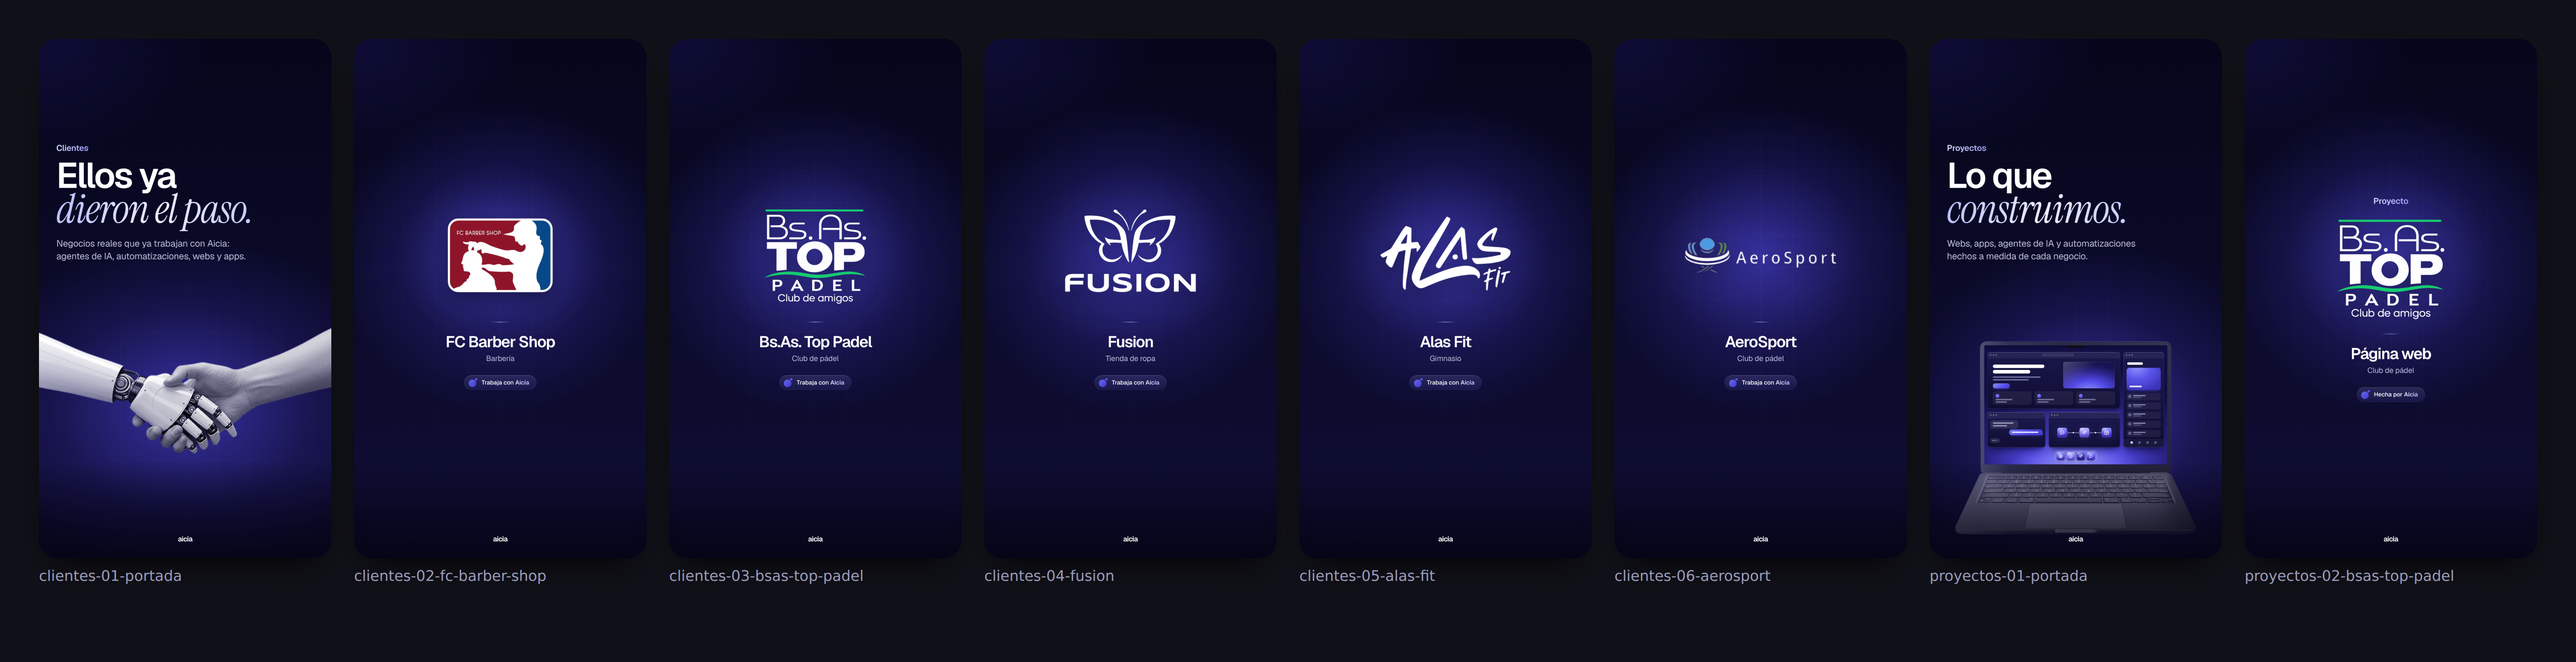
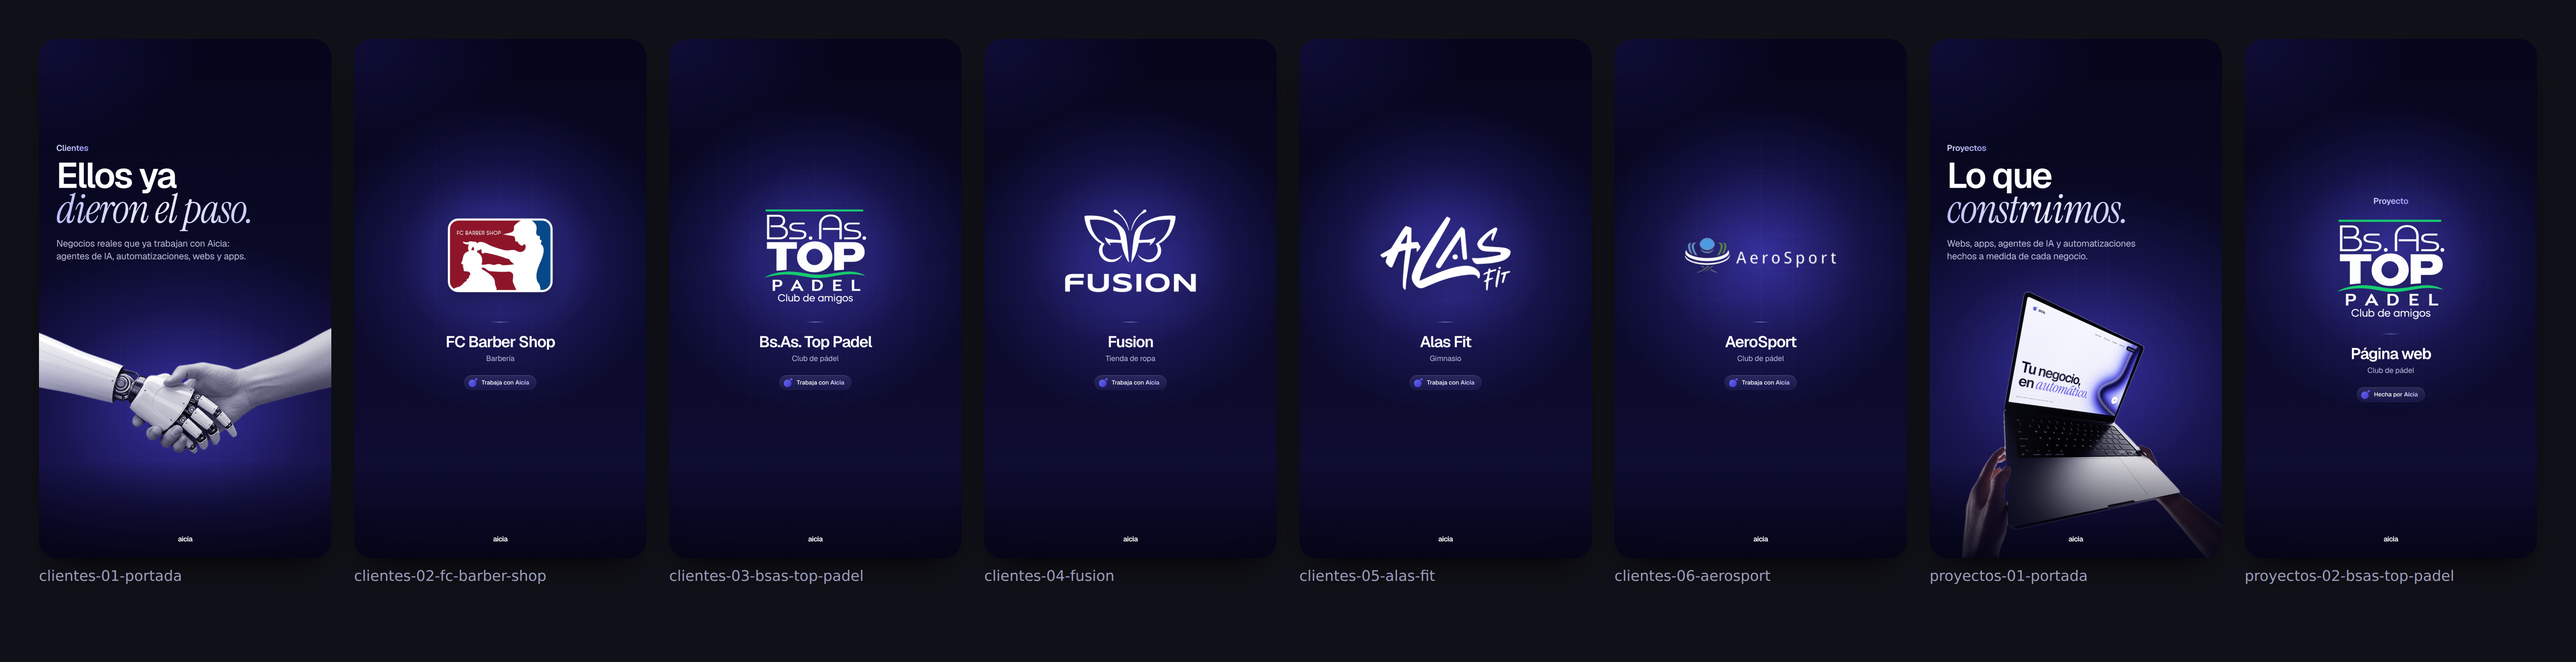
Proyectos: portada con foto real de manos y MacBook, sitio de Aicia calzado en perspectiva
Claude-Session: https://claude.ai/code/session_01SBSshHAET78NiDLxszLW9R

Changed region(s): [[0.7491, 0.3438, 0.8739, 0.8125]]

diff --git a/historias/clientes-proyectos/historias.html b/historias/clientes-proyectos/historias.html
@@ -239,55 +239,29 @@ svg.app .gl .f{fill:#fff;stroke:none}
 .card .pill .lg-i{width:34px;height:34px;margin-left:-6px;flex:none}
 .card .pill b{font-weight:600;background:linear-gradient(90deg,#E4E5FF,#B9BBFF);-webkit-background-clip:text;background-clip:text;-webkit-text-fill-color:transparent}
 
-/* MacBook con fondo de pantalla */
-.mac-screen{z-index:3;overflow:hidden;border-radius:3px 3px 0 0;background:radial-gradient(70% 90% at 50% 105%,#7B7EF8 0%,#4F46E5 35%,#2A2384 70%,#120F45 100%)}
-.mac-screen::before{content:"";position:absolute;inset:0;background:radial-gradient(60% 60% at 50% 120%,rgba(199,201,255,.55),transparent 70%)}
-.mac-screen .notch{position:absolute;left:50%;top:0;width:58px;height:9px;margin-left:-29px;background:#0E0E12;border-radius:0 0 6px 6px;z-index:2}
-.mac-screen .bar{position:absolute;left:0;right:0;top:0;height:13px;background:rgba(10,8,40,.35);backdrop-filter:blur(6px)}
-/* Pantalla: web, app, agente de IA y automatización */
-.mac-screen .win{position:absolute;border-radius:10px;overflow:hidden;background:linear-gradient(180deg,rgba(26,24,74,.94),rgba(14,12,46,.96));box-shadow:inset 0 0 0 .7px rgba(255,255,255,.22),inset 0 1px 0 rgba(255,255,255,.16),0 16px 30px -10px rgba(6,4,40,.75),0 2px 6px rgba(6,4,40,.35)}
-.mac-screen .win > *{position:absolute}
-.mac-screen .wt{position:relative!important;height:22px;display:flex;align-items:center;gap:4px;padding:0 9px;background:rgba(255,255,255,.05);box-shadow:inset 0 -.6px 0 rgba(255,255,255,.09)}
-.mac-screen .wt > i{width:6px;height:6px;border-radius:50%;background:rgba(255,255,255,.28)}
-.mac-screen .wt .url{margin:0 auto;width:120px;height:11px;border-radius:6px;background:rgba(255,255,255,.08)}
-.mac-screen .sk{border-radius:99px;background:#fff}
-.mac-screen .sk.p{height:5px;background:rgba(199,201,255,.5)}
-.mac-screen .btn{width:62px;height:18px;border-radius:9px;background:linear-gradient(135deg,#8487FA,#5B54EC 55%,#4338CA);box-shadow:inset 0 .6px 0 rgba(255,255,255,.4),0 4px 10px -2px rgba(79,70,229,.6)}
-.mac-screen .hero{border-radius:8px;background:radial-gradient(90% 100% at 50% 110%,#8B8EFA 0%,#4F46E5 40%,#2A2384 75%,#17134F 100%);box-shadow:inset 0 0 0 .6px rgba(255,255,255,.18)}
-.mac-screen .hero::after{content:"";position:absolute;inset:0;border-radius:inherit;background:linear-gradient(135deg,rgba(255,255,255,.22),transparent 45%)}
-.mac-screen .cd{width:94px;height:64px;border-radius:8px;background:rgba(255,255,255,.06);box-shadow:inset 0 0 0 .6px rgba(255,255,255,.12)}
-.mac-screen .cd i{position:absolute;left:10px;top:11px;width:14px;height:14px;border-radius:50%;background:linear-gradient(135deg,#8487FA,#4F46E5)}
-.mac-screen .cd b{position:absolute;left:10px;height:5px;border-radius:3px;background:rgba(199,201,255,.45)}
-.mac-screen .cd b:nth-of-type(1){top:36px;width:62px}.mac-screen .cd b:nth-of-type(2){top:46px;width:42px}
-.mac-screen .web .cd i{top:9px}.mac-screen .web .cd b:nth-of-type(1){top:27px}.mac-screen .web .cd b:nth-of-type(2){top:36px}
-.mac-screen .bub{display:flex;flex-direction:column;gap:5px;padding:8px 10px;border-radius:11px}
-.mac-screen .bub b{height:5px;border-radius:3px}
-.mac-screen .bub.in{left:10px;background:rgba(255,255,255,.10);border-bottom-left-radius:3px}
-.mac-screen .bub.in b{background:rgba(226,228,255,.55)}
-.mac-screen .bub.out{right:10px;background:linear-gradient(150deg,#7376F6,#4F46E5 60%,#4338CA);border-bottom-right-radius:3px;box-shadow:0 4px 10px -3px rgba(79,70,229,.6)}
-.mac-screen .bub.out b{background:rgba(255,255,255,.85)}
-.mac-screen .typing{left:10px;top:138px;display:flex;gap:3px;padding:7px 9px;border-radius:10px;background:rgba(255,255,255,.10)}
-.mac-screen .typing i{width:4px;height:4px;border-radius:50%;background:rgba(226,228,255,.7)}
-.mac-screen .typing i:nth-child(2){opacity:.7}.mac-screen .typing i:nth-child(3){opacity:.4}
-.mac-screen .auto .wires{left:0;top:0}
-.mac-screen .nd{width:36px;height:36px;filter:drop-shadow(0 4px 7px rgba(6,4,40,.6)) drop-shadow(0 0 8px rgba(99,102,241,.35))}
-.mac-screen .phn{position:absolute;width:118px;height:250px;padding:3px;border-radius:21px;background:linear-gradient(145deg,#4A4A58,#1A1A22 40%,#2C2C36);box-shadow:inset 0 0 0 .6px rgba(255,255,255,.3),0 20px 34px -10px rgba(4,3,30,.85),0 4px 10px rgba(4,3,30,.45);z-index:2}
-.mac-screen .ps{position:relative;width:100%;height:100%;border-radius:18px;overflow:hidden;background:linear-gradient(180deg,#191748,#100E36)}
-.mac-screen .ps > *{position:absolute}
-.mac-screen .island{left:50%;top:6px;width:34px;height:10px;margin-left:-17px;border-radius:6px;background:#050508}
-.mac-screen .feat{left:10px;right:10px;top:52px;height:62px;border-radius:10px;background:radial-gradient(90% 110% at 30% 0%,#8B8EFA 0%,#5B54EC 45%,#3A32B8 100%);box-shadow:0 6px 12px -4px rgba(79,70,229,.6)}
-.mac-screen .feat::after{content:"";position:absolute;left:10px;bottom:10px;width:46px;height:6px;border-radius:3px;background:rgba(255,255,255,.85)}
-.mac-screen .row{left:10px;right:10px;height:24px;border-radius:7px;background:rgba(255,255,255,.06)}
-.mac-screen .row i{position:absolute;left:6px;top:6px;width:12px;height:12px;border-radius:4px;background:rgba(199,201,255,.35)}
-.mac-screen .row b{position:absolute;left:24px;height:4px;border-radius:2px;background:rgba(226,228,255,.55)}
-.mac-screen .row b:nth-of-type(1){top:7px;width:46px}.mac-screen .row b:nth-of-type(2){top:14px;width:30px;background:rgba(199,201,255,.3)}
-.mac-screen .app .feat{left:12px;right:12px}
-.mac-screen .app .row{left:12px;right:12px;height:26px}
-.mac-screen .dock{position:absolute;left:50%;bottom:9px;transform:translateX(-50%);display:flex;gap:7px;padding:6px 8px;border-radius:14px;background:rgba(255,255,255,.14);backdrop-filter:blur(10px);box-shadow:inset 0 0 0 .5px rgba(255,255,255,.3)}
-.mac-screen .dock svg.app{width:30px;height:30px;filter:drop-shadow(0 3px 5px rgba(10,8,70,.45))}
-.mac-screen .tabs{left:0;right:0;bottom:0;height:30px;display:flex;justify-content:space-around;align-items:center;padding:0 16px 4px;background:rgba(255,255,255,.04);box-shadow:inset 0 .6px 0 rgba(255,255,255,.08)}
-.mac-screen .tabs i{width:9px;height:9px;border-radius:3px;background:rgba(199,201,255,.35)}
-.mac-screen .tabs i:first-child{background:#C7C9FF}
+/* Proyectos: foto real de manos con MacBook + sitio de Aicia en perspectiva */
+.p1{--gx:52%;--gy:64%;--gw:1250px;--gh:1000px}
+.lap{z-index:2;isolation:isolate}
+.lap > *{position:absolute}
+.lap-scr{left:0;top:0;width:100%;height:100%;z-index:3;filter:blur(.45px) saturate(.96)}
+.lap-scr > *{position:absolute;left:0;top:0;transform-origin:0 0}
+.site{width:1512px;height:982px;overflow:hidden;border-radius:18px 18px 6px 6px;font-family:"Geist",system-ui,sans-serif;color:#0B0A2A;background:linear-gradient(180deg,#F4F4FE 0%,#ECECFA 100%)}
+.site > *{position:absolute}
+.site .wave{left:0;top:0}
+.site nav{left:64px;right:64px;top:40px;height:52px;display:flex;align-items:center}
+.site .brand-s{display:flex;align-items:center;gap:12px;font-size:32px;font-weight:600;letter-spacing:-0.045em}
+.site .brand-s svg{width:38px;height:38px}
+.site .links{margin-left:auto;margin-right:40px;display:flex;gap:40px;font-size:20px;font-weight:500;color:rgba(11,10,42,.68)}
+.site .cta-s{height:50px;padding:0 26px;border-radius:25px;display:flex;align-items:center;font-size:19px;font-weight:500;color:#fff;background:#0E0C33}
+.site h2{left:60px;bottom:168px;font-size:150px;line-height:.9;font-weight:600;letter-spacing:-0.058em;white-space:nowrap}
+.site h2 .serif{font-size:1.1em;color:#4F46E5;letter-spacing:-0.02em}
+.site .meta{left:64px;right:64px;bottom:58px;display:flex;justify-content:space-between;font-size:20px;color:rgba(11,10,42,.55);padding-top:22px;border-top:1.5px solid rgba(11,10,42,.12)}
+.site .go{right:64px;bottom:176px;width:104px;height:104px;border-radius:50%;display:grid;place-items:center;background:#FFFFFF;box-shadow:0 18px 40px -12px rgba(14,12,51,.45)}
+.site .go svg{width:44px;height:44px;fill:none;stroke:#0E0C33;stroke-width:1.7;stroke-linecap:round;stroke-linejoin:round}
+.glare{width:1512px;height:982px;border-radius:18px 18px 6px 6px;pointer-events:none;
+  background:linear-gradient(112deg,rgba(255,255,255,0) 18%,rgba(255,255,255,.16) 34%,rgba(255,255,255,0) 50%),
+    radial-gradient(120% 90% at 0% 0%,rgba(255,255,255,.10),transparent 55%),
+    radial-gradient(140% 120% at 50% 50%,transparent 62%,rgba(10,8,40,.22) 100%)}
 
 /* Portadas de destacadas (círculo) */
 .cover{--gx:50%;--gy:50%;--gw:1000px;--gh:1000px}
@@ -430,50 +404,34 @@ svg.app .gl .f{fill:#fff;stroke:none}
 <!-- ======================= PROYECTOS · PORTADA ======================= -->
 <section class="story p1" data-file="aicia-proyectos-01-portada.png">
   <div class="stage"></div><div class="grid"></div>
-  <div class="subj" data-src="assets/macbook.png" data-rim="left" style="left:94px;top:940px;width:892px;--tint:.18;--rim:.45"></div>
-  <div class="mac-screen" style="left:201.5px;top:1132.5px;width:676px;height:440px">
-    <div class="bar"></div><div class="notch"></div>
-    <!-- Mosaico: web (grande), app (alta), agente de IA y automatización; separación pareja de 12 px, sin textos -->
-    <div class="win web" style="left:12px;top:25px;width:490px;height:210px">
-      <div class="wt"><i></i><i></i><i></i><span class="url"></span></div>
-      <span class="sk" style="left:20px;top:46px;width:190px;height:13px"></span>
-      <span class="sk" style="left:20px;top:66px;width:138px;height:13px"></span>
-      <span class="sk p" style="left:20px;top:90px;width:176px"></span><span class="sk p" style="left:20px;top:100px;width:132px"></span>
-      <span class="btn" style="left:20px;top:116px"></span>
-      <span class="hero" style="left:280px;top:36px;width:190px;height:98px"></span>
-      <span class="cd" style="left:20px;top:146px;width:142px;height:48px"><i></i><b></b><b></b></span><span class="cd" style="left:174px;top:146px;width:142px;height:48px"><i></i><b></b><b></b></span><span class="cd" style="left:328px;top:146px;width:142px;height:48px"><i></i><b></b><b></b></span>
-    </div>
-    <div class="win app" style="left:514px;top:25px;width:150px;height:352px">
-      <div class="wt"><i></i><i></i><i></i></div>
-      <span class="sk" style="left:14px;top:38px;width:58px;height:9px"></span>
-      <span class="feat" style="top:58px;height:82px"></span>
-      <span class="row" style="top:152px"><i></i><b></b><b></b></span><span class="row" style="top:186px"><i></i><b></b><b></b></span><span class="row" style="top:220px"><i></i><b></b><b></b></span><span class="row" style="top:254px"><i></i><b></b><b></b></span><span class="row" style="top:288px"><i></i><b></b><b></b></span>
-      <span class="tabs"><i></i><i></i><i></i><i></i></span>
-    </div>
-    <div class="win chat" style="left:12px;top:247px;width:214px;height:130px">
-      <div class="wt"><i></i><i></i><i></i></div>
-      <span class="bub in" style="top:30px;width:104px"><b style="width:76px"></b><b style="width:52px"></b></span>
-      <span class="bub out" style="top:64px;width:124px"><b style="width:98px"></b></span>
-      <span class="typing" style="top:96px"><i></i><i></i><i></i></span>
-    </div>
-    <div class="win auto" style="left:238px;top:247px;width:264px;height:130px">
-      <div class="wt"><i></i><i></i><i></i></div>
-      <svg class="wires" viewBox="0 0 264 130" width="264" height="130">
-        <g fill="none" stroke="#8487FA" stroke-width="4" stroke-opacity=".5" filter="url(#mglow)"><path d="M70 76H112M152 76H194"/></g>
-        <g fill="none" stroke="#D9DAFF" stroke-width="1.6" stroke-linecap="round"><path d="M70 76H112M152 76H194"/></g>
-        <g fill="#0E0D30" stroke="#C7C9FF" stroke-width="1.2"><circle cx="70" cy="76" r="2.8"/><circle cx="112" cy="76" r="2.8"/><circle cx="152" cy="76" r="2.8"/><circle cx="194" cy="76" r="2.8"/></g>
-        <circle cx="91" cy="76" r="2.6" fill="#fff"/><circle cx="173" cy="76" r="2.6" fill="#fff"/>
-      </svg>
-      <svg class="app nd" style="left:32px;top:58px" viewBox="0 0 100 100" data-g="g-message" data-s="ap-indigo"></svg>
-      <svg class="app nd" style="left:114px;top:58px" viewBox="0 0 100 100" data-g="g-spark" data-s="ap-light"></svg>
-      <svg class="app nd" style="left:196px;top:58px" viewBox="0 0 100 100" data-g="g-cal" data-s="ap-indigo"></svg>
-    </div>
-    <!-- Dock estilo iOS: web, app, agente de IA y automatización -->
-    <div class="dock">
-      <svg class="app" viewBox="0 0 100 100" data-g="g-globe" data-s="ap-indigo"></svg>
-      <svg class="app" viewBox="0 0 100 100" data-g="g-phone" data-s="ap-light"></svg>
-      <svg class="app" viewBox="0 0 100 100" data-g="g-spark" data-s="ap-deep"></svg>
-      <svg class="app" viewBox="0 0 100 100" data-g="g-flow" data-s="ap-indigo"></svg>
+  <!-- Foto real (manos + MacBook). La pantalla original se pintó de negro (preparar-macbook.mjs)
+       y el sitio de Aicia se calza encima en perspectiva con las 4 esquinas medidas. -->
+  <div class="lap" style="left:-204px;top:840px;width:1440px;height:1080px" data-w="1200" data-quad="472,93 820,252 740,462 413,418">
+    <div class="subj" data-src="assets/macbook-manos.png" data-rim="left" style="left:0;top:0;width:1440px;--tint:.12;--rim:.38"></div>
+    <div class="lap-scr" aria-hidden="true">
+      <div class="site">
+        <svg class="wave" viewBox="0 0 1512 982" width="1512" height="982">
+          <defs>
+            <filter id="wv1" x="-50%" y="-50%" width="200%" height="200%"><feGaussianBlur stdDeviation="64"/></filter>
+            <filter id="wv2" x="-50%" y="-50%" width="200%" height="200%"><feGaussianBlur stdDeviation="38"/></filter>
+            <filter id="wv3" x="-50%" y="-50%" width="200%" height="200%"><feGaussianBlur stdDeviation="22"/></filter>
+            <filter id="wv4" x="-50%" y="-50%" width="200%" height="200%"><feGaussianBlur stdDeviation="11"/></filter>
+            <path id="wvp" d="M1660 -140C1240 110 1580 400 1250 570S1340 930 1760 1090"/>
+          </defs>
+          <use href="#wvp" fill="none" stroke="#C7C9FF" stroke-width="470" opacity=".85" filter="url(#wv1)"/>
+          <use href="#wvp" fill="none" stroke="#6366F1" stroke-width="270" filter="url(#wv2)"/>
+          <use href="#wvp" fill="none" stroke="#2A2290" stroke-width="140" filter="url(#wv3)"/>
+          <use href="#wvp" fill="none" stroke="#0D0A40" stroke-width="50" filter="url(#wv4)"/>
+          <use href="#wvp" fill="none" stroke="#FFFFFF" stroke-width="22" opacity=".55" filter="url(#wv4)" transform="translate(-46 -30)"/>
+        </svg>
+        <nav><span class="brand-s"><svg><use href="#logo"/></svg>aicia</span>
+          <span class="links"><span>Servicios</span><span>Proyectos</span><span>Clientes</span><span>Contacto</span></span>
+          <span class="cta-s">Pedí tu demo</span></nav>
+        <h2>Tu negocio,<br>en <span class="serif">automático.</span></h2>
+        <div class="meta"><span>Agentes de IA · Automatizaciones · Webs · Apps</span><span>Montevideo, Uruguay</span></div>
+        <span class="go"><svg viewBox="0 0 24 24"><use href="#g-arrow" width="24" height="24"/></svg></span>
+      </div>
+      <div class="glare"></div>
     </div>
   </div>
   <div class="eyebrow tx">Proyectos</div>
@@ -657,6 +615,22 @@ function renderSpheres(theme, size, vb, show) {
   return cv.toDataURL('image/png');
 }
 
+/* ---------- Pantalla en perspectiva: rectángulo → las 4 esquinas medidas en la foto ---------- */
+function fitScreens() {
+  document.querySelectorAll('.lap').forEach(lap => {
+    const k = lap.clientWidth / +lap.dataset.w;
+    const q = lap.dataset.quad.split(' ').map(p => p.split(',').map(n => +n * k));
+    lap.querySelectorAll('.lap-scr > *').forEach(el => {
+      const w = el.offsetWidth, h = el.offsetHeight;
+      const [[x0, y0], [x1, y1], [x2, y2], [x3, y3]] = q;
+      const dx1 = x1 - x2, dx2 = x3 - x2, dx3 = x0 - x1 + x2 - x3, dy1 = y1 - y2, dy2 = y3 - y2, dy3 = y0 - y1 + y2 - y3;
+      const den = dx1 * dy2 - dx2 * dy1, g = (dx3 * dy2 - dx2 * dy3) / den, hh = (dx1 * dy3 - dx3 * dy1) / den;
+      const a = x1 - x0 + g * x1, b = x3 - x0 + hh * x3, d = y1 - y0 + g * y1, e = y3 - y0 + hh * y3;
+      el.style.transform = `matrix3d(${a / w},${d / w},0,${g / w},${b / h},${e / h},0,${hh / h},0,0,1,0,${x0},${y0},0,1)`;
+    });
+  });
+}
+
 (async () => {
   if (location.search.includes('qa')) document.documentElement.classList.add('qa');
   buildOrbits();
@@ -665,6 +639,7 @@ function renderSpheres(theme, size, vb, show) {
     pair: renderSpheres('light', 1200, [110, 180, 740, 740], [1, 1]),
   };
   const imgs = [...document.querySelectorAll('img[data-sph]')];
+  fitScreens();
   await Promise.all([buildSubjects(), ...imgs.map(im => new Promise(r => { im.onload = r; im.src = urls[im.dataset.sph]; }))]);
   await document.fonts.ready;
   window.__ready = true;

diff --git a/CLAUDE.md b/CLAUDE.md
@@ -82,5 +82,5 @@ node portadas-destacadas/render.mjs    # portadas 2160×2160
 - El logo de AeroSport es de baja resolución. Si Guille consigue uno más grande, reemplazarlo.
 
 ### Pendiente
-- **Proyectos**: portada "Lo que *construimos.*": MacBook (`assets/macbook.png`). En la pantalla hay un mosaico (bento) de 4 ventanas de distinto tamaño, sin superponerse y con separación pareja de 12 px: web (grande, arriba a la izquierda), app (alta, a la derecha), agente de IA (chat) y automatización (flujo de 3 nodos). Las ventanas no llevan textos ni etiquetas. Abajo hay un dock estilo iOS con 4 íconos: web (globo), app (celular), agente de IA (destello) y automatización (flechas). Todo en HTML/CSS dentro de `.mac-screen`. La bajada es "Webs, apps, agentes de IA y automatizaciones hechos a medida de cada negocio." Se descartaron el logo grande, la vista explotada y el flujo n8n a pantalla completa. Próximo: historias de cada proyecto con el logo del cliente chico arriba y la página/app mostrada. La tarjeta Bs.As. Top (web) sigue como placeholder.
+- **Proyectos**: portada "Lo que *construimos.*" con una **foto real** de dos manos levantando una MacBook (`assets/macbook-manos.png`, que sale de `macbook-manos-original.png` con `preparar-macbook.mjs`; ese script borra la pantalla verde y mide sus 4 esquinas). Encima de la pantalla va un sitio de Aicia premium y claro, calzado en perspectiva con `fitScreens()` (homografía → `matrix3d`): nav, "Tu negocio, en *automático.*" y una onda índigo difuminada. La bajada es "Webs, apps, agentes de IA y automatizaciones hechos a medida de cada negocio." Se descartaron el logo grande, la vista explotada, el flujo n8n y el mosaico de ventanas. Próximo: historias de cada proyecto con el logo del cliente chico arriba y la página/app mostrada. La tarjeta Bs.As. Top (web) sigue como placeholder.
 - Opcional: video de demo de un proyecto si Guille pasa grabaciones de pantalla.
